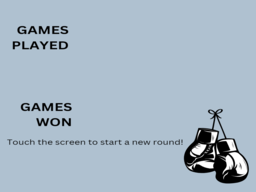
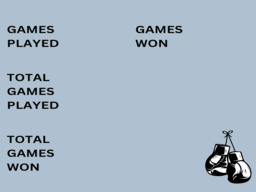
new bg image for statistics

diff --git a/00_project/source/graphics/graphics.c b/00_project/source/graphics/graphics.c
@@ -270,7 +270,7 @@ int set_time_remaining(int min, int sec, int msec){
 	return (time_round - time_passed);
 }
 
-void show_settings(int games_played, int games_won, int higher_won){
+void show_settings(int games_played, int games_won, int higher_played){
 	// Configure the SUB engine in Rotoscale Mode
 	REG_DISPCNT_SUB = MODE_5_2D | DISPLAY_BG1_ACTIVE | DISPLAY_BG2_ACTIVE;
 	BGCTRL_SUB[2] = BG_BMP_BASE(5) | BG_BMP8_256x256;
@@ -283,22 +283,22 @@ void show_settings(int games_played, int games_won, int higher_won){
 	}
 
 	int games_played_hundreds = games_played / 100;
-	int games_played_dozens = (games_played%100)/10;
-	int games_played_units = (games_played%100)%10;
+	int games_played_dozens = (games_played)/10;
+	int games_played_units = (games_played)%10;
 
 	int games_won_hundreds = games_won / 100;
-	int games_won_dozens = (games_won%100)/10;
-	int games_won_units = (games_won%100)%10;
+	int games_won_dozens = (games_won)/10;
+	int games_won_units = (games_won)%10;
 
-	int higher_won_hundreds = higher_won / 100;
-	int higher_won_dozens = (higher_won%100)/10;
-	int higher_won_units = (higher_won%100)%10;
+	int higher_played_hundreds = higher_played / 100;
+	int higher_played_dozens = (higher_played%100)/10;
+	int higher_played_units = (higher_played%100)%10;
 
 	BGCTRL_SUB[1] = BG_32x32 | BG_COLOR_256 | BG_MAP_BASE(0) | BG_TILE_BASE(1);
 	//Copy the tiles and the palette to the corresonding location
 	swiCopy(numbersTiles, BG_TILE_RAM_SUB(1), numbersTilesLen);
 
-	u8 pal_l8, pal_h8;
+	/*u8 pal_l8, pal_h8;
 	u16* image = BG_TILE_RAM_SUB(1);
 	for(i=0; i<numbersTilesLen/2; i++){
 		pal_l8 = (u8) (image[i]);
@@ -312,7 +312,7 @@ void show_settings(int games_played, int games_won, int higher_won){
 		else
 			pal_h8 = 3;
 		image[i] = pal_h8<<8 | pal_l8;
-	}
+	}*/
 
 	printDigit(BG_MAP_RAM_SUB(0) , games_played_hundreds, 10, 0);
 	printDigit(BG_MAP_RAM_SUB(0) , games_played_dozens, 14, 0);
@@ -320,9 +320,9 @@ void show_settings(int games_played, int games_won, int higher_won){
 	printDigit(BG_MAP_RAM_SUB(0) , games_won_hundreds, 10, 8);
 	printDigit(BG_MAP_RAM_SUB(0) , games_won_dozens, 14, 8);
 	printDigit(BG_MAP_RAM_SUB(0) , games_won_units, 18, 8);
-	printDigit(BG_MAP_RAM_SUB(0) , higher_won_hundreds, 10, 16);
-	printDigit(BG_MAP_RAM_SUB(0) , higher_won_dozens, 14, 16);
-	printDigit(BG_MAP_RAM_SUB(0) , higher_won_units, 18, 16);
+	printDigit(BG_MAP_RAM_SUB(0) , higher_played_hundreds, 10, 16);
+	printDigit(BG_MAP_RAM_SUB(0) , higher_played_dozens, 14, 16);
+	printDigit(BG_MAP_RAM_SUB(0) , higher_played_units, 18, 16);
 }
 
 void sprite_initializer(){

diff --git a/00_project/source/game/game_sync_fsm.c b/00_project/source/game/game_sync_fsm.c
@@ -196,26 +196,18 @@ void go_for_end_round()
     u8 local, remote;
     int higher_won, higher_played;
 
-    get_stats(&higher_played, &higher_won);
+    //get_stats(&higher_played, &higher_won);
     get_scores(&local, &remote);
 
     if(my_score == local){
-    	higher_played++;
-    	store_stats(higher_played, higher_won);
-    	get_stats(&higher_played, &higher_won);
-       	youlose();
+    	youlose();
     }
     else{
-    	higher_played++;
-    	higher_won++;
-    	store_stats(higher_played, higher_won);
-    	get_stats(&higher_played, &higher_won);
     	youwin();
     }
 
-
-
-    show_settings(local+remote,local, higher_won);
+    //get_stats(&higher_played, &higher_won);
+    show_settings(local+remote,local, higher_played);
 
     swiWaitForVBlank();
 }
@@ -223,9 +215,10 @@ void go_for_end_round()
 void go_for_new_round()
 {
 	// @todo change BG and send ctrl changeBG instr
-    new_round();
+	new_round();
     u8 scr, dontcare;
     get_scores(&scr, &dontcare);
+    store_stats(scr, dontcare);
     my_score = scr;
     send_ctrl_instruction(SET_STAGE | IS_PLAY, scr, 0);
     game_state = GAME_IN_PROGRESS;
